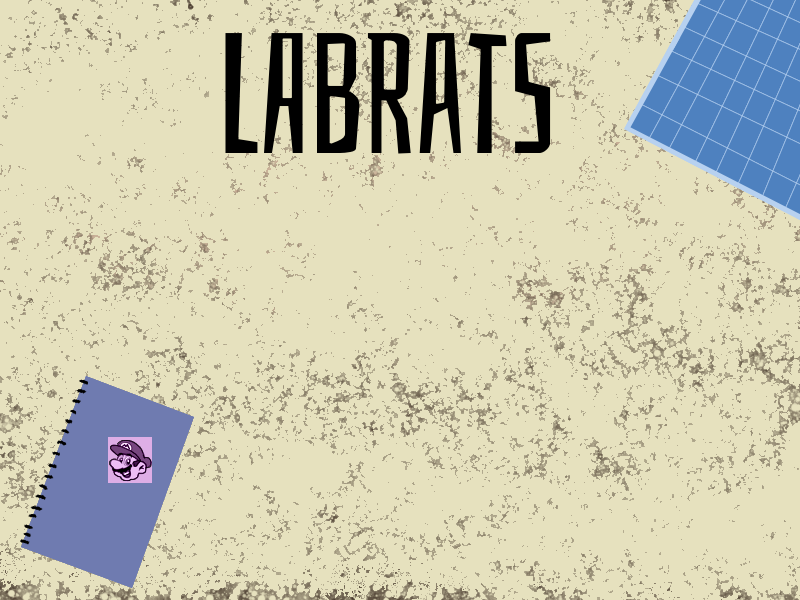
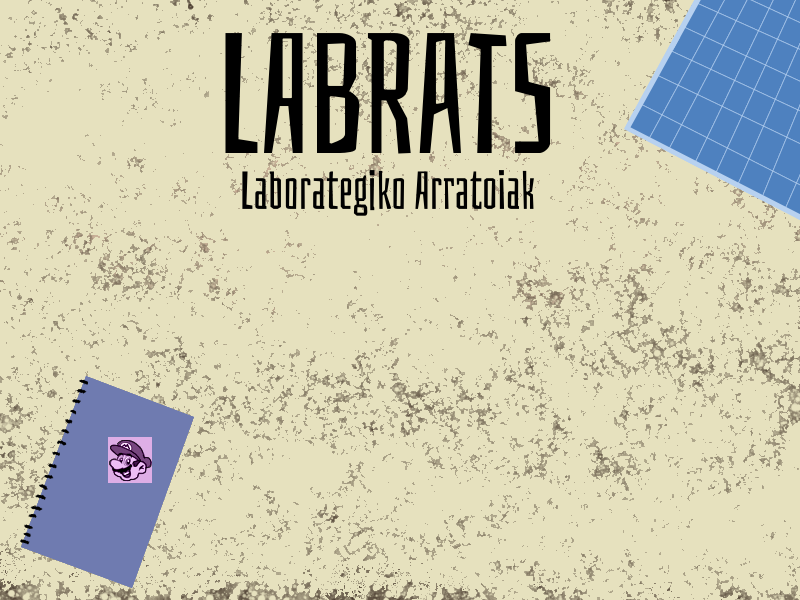
modo chill y modo euskera

Changed region(s): [[0.2812, 0.27, 0.6875, 0.36]]

diff --git a/LabRatsServer/src/main/resources/static/scripts/options.js b/LabRatsServer/src/main/resources/static/scripts/options.js
@@ -24,7 +24,7 @@ class OptionsMenu extends Phaser.Scene {
         
         this.add.image(400, 300, 'background');
         
-        this.backBtn = this.add.image(400, 500, 'backBtn');
+        this.backBtn = this.add.image(380, 500, 'backBtn');
         this.backBtn.setScale(0.5);
         this.backBtn.setInteractive();
         this.backBtn.on('pointerdown', () => {
@@ -37,15 +37,25 @@ class OptionsMenu extends Phaser.Scene {
         this.backBtn.on('pointerout', () => {
             this.backBtn.setScale(0.5);
         });
-
-        this.chillBtn = this.add.image(400, 220, 'chillbtn');
+        let modochill=false;
+        this.chillBtn = this.add.image(380, 240, 'chillbtn');
         this.chillBtn.setScale(0.5);
         this.chillBtn.setInteractive();
         this.chillBtn.on('pointerdown', () => {
+            if (!modochill) {
             this.game.click.play();
-            this.chillmode = this.add.image(400, 200, 'chillmode').setScale(0.6);
+            this.chillmode = this.add.image(400, 430, 'chillmode').setScale(0.5);
             this.game.chill = this.sound.add('chill');
             this.game.chill.play();
+            this.game.mainMenuMusic.setVolume(0);
+            modochill = true;
+        } else {
+                this.game.click.play();
+                this.chillmode.setScale(0);
+                this.game.chill.setVolume(0);
+                this.game.mainMenuMusic.setVolume(0.5);
+                modochill = false; 
+            }
         });
         this.chillBtn.on('pointerover', () => {
             this.chillBtn.setScale(0.55);

diff --git a/LabRatsServer/src/main/resources/static/scripts/user.js b/LabRatsServer/src/main/resources/static/scripts/user.js
@@ -28,7 +28,7 @@ class UserScene extends Phaser.Scene {
         this.form.action = '/user';  // URL a la que se envia el formulario
         this.form.method = 'POST';
         this.form.style.position = 'absolute';
-        this.form.style.top = '40%';  // Posición vertical 
+        this.form.style.top = '45%';  // Posición vertical 
         this.form.style.left = '50%'; // Posición horizontal
         this.form.style.transform = 'translateX(-50%)'; // Centrado horizontal
         this.form.style.zIndex = '10';  // posicion z
